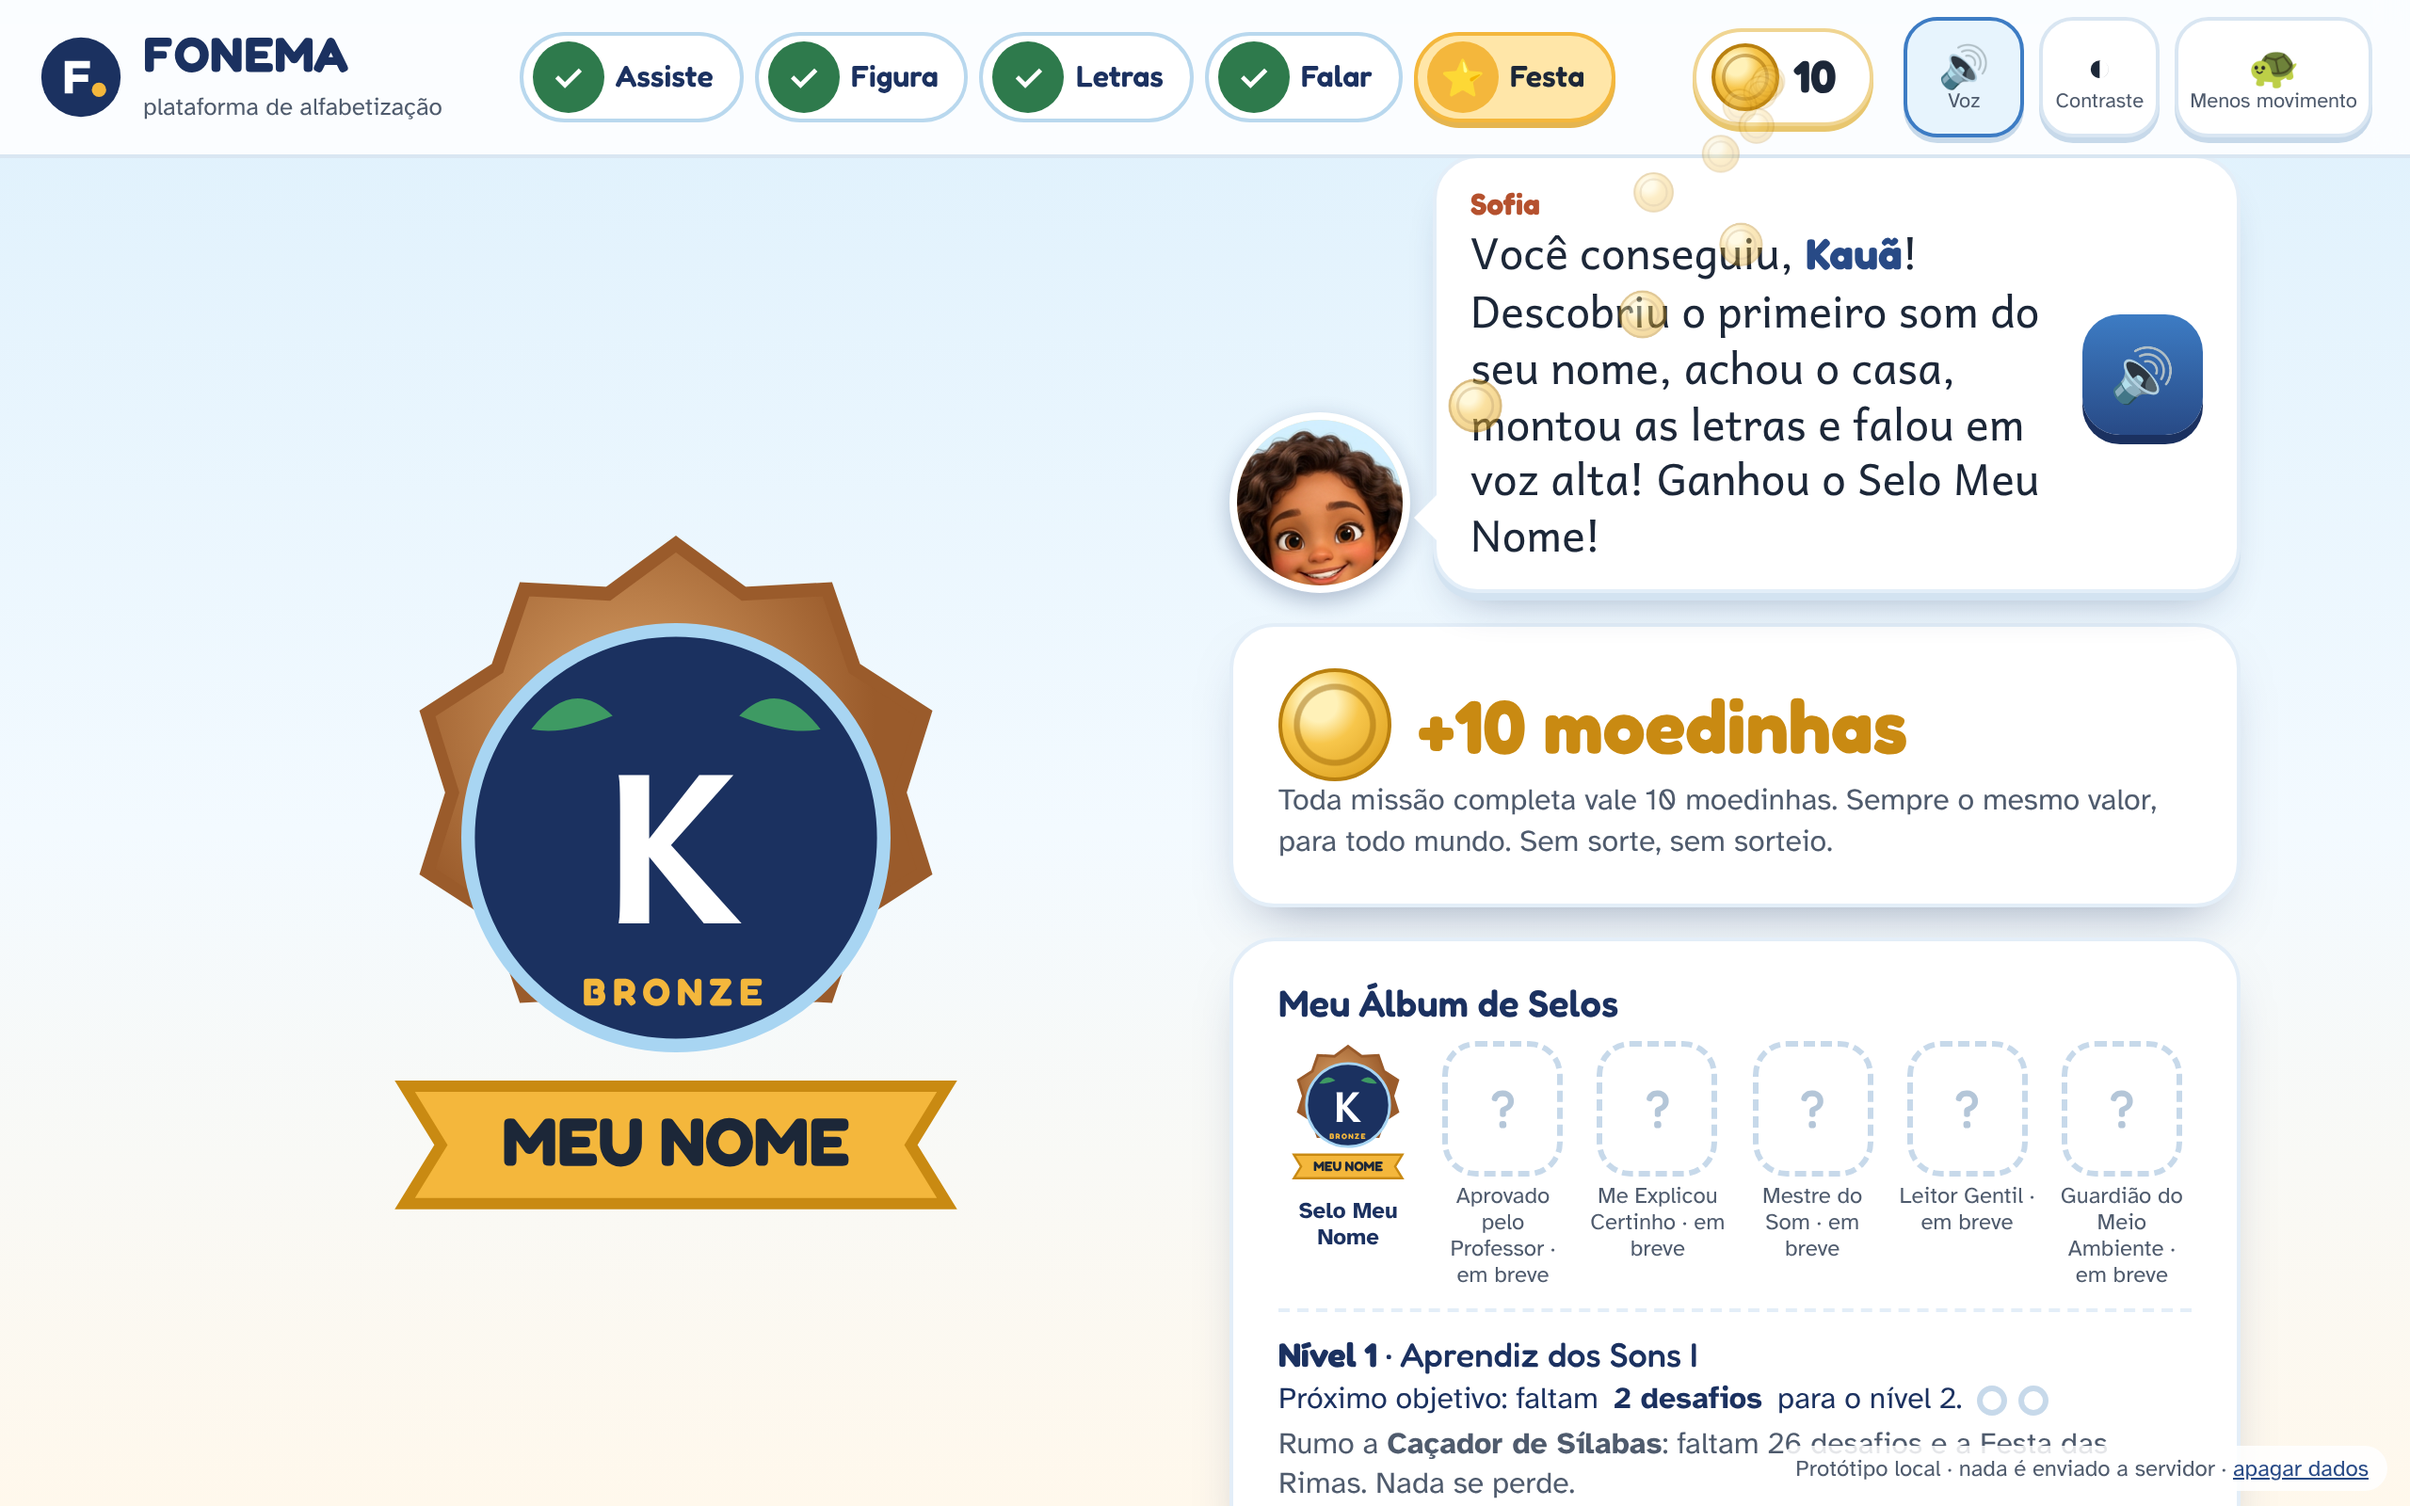
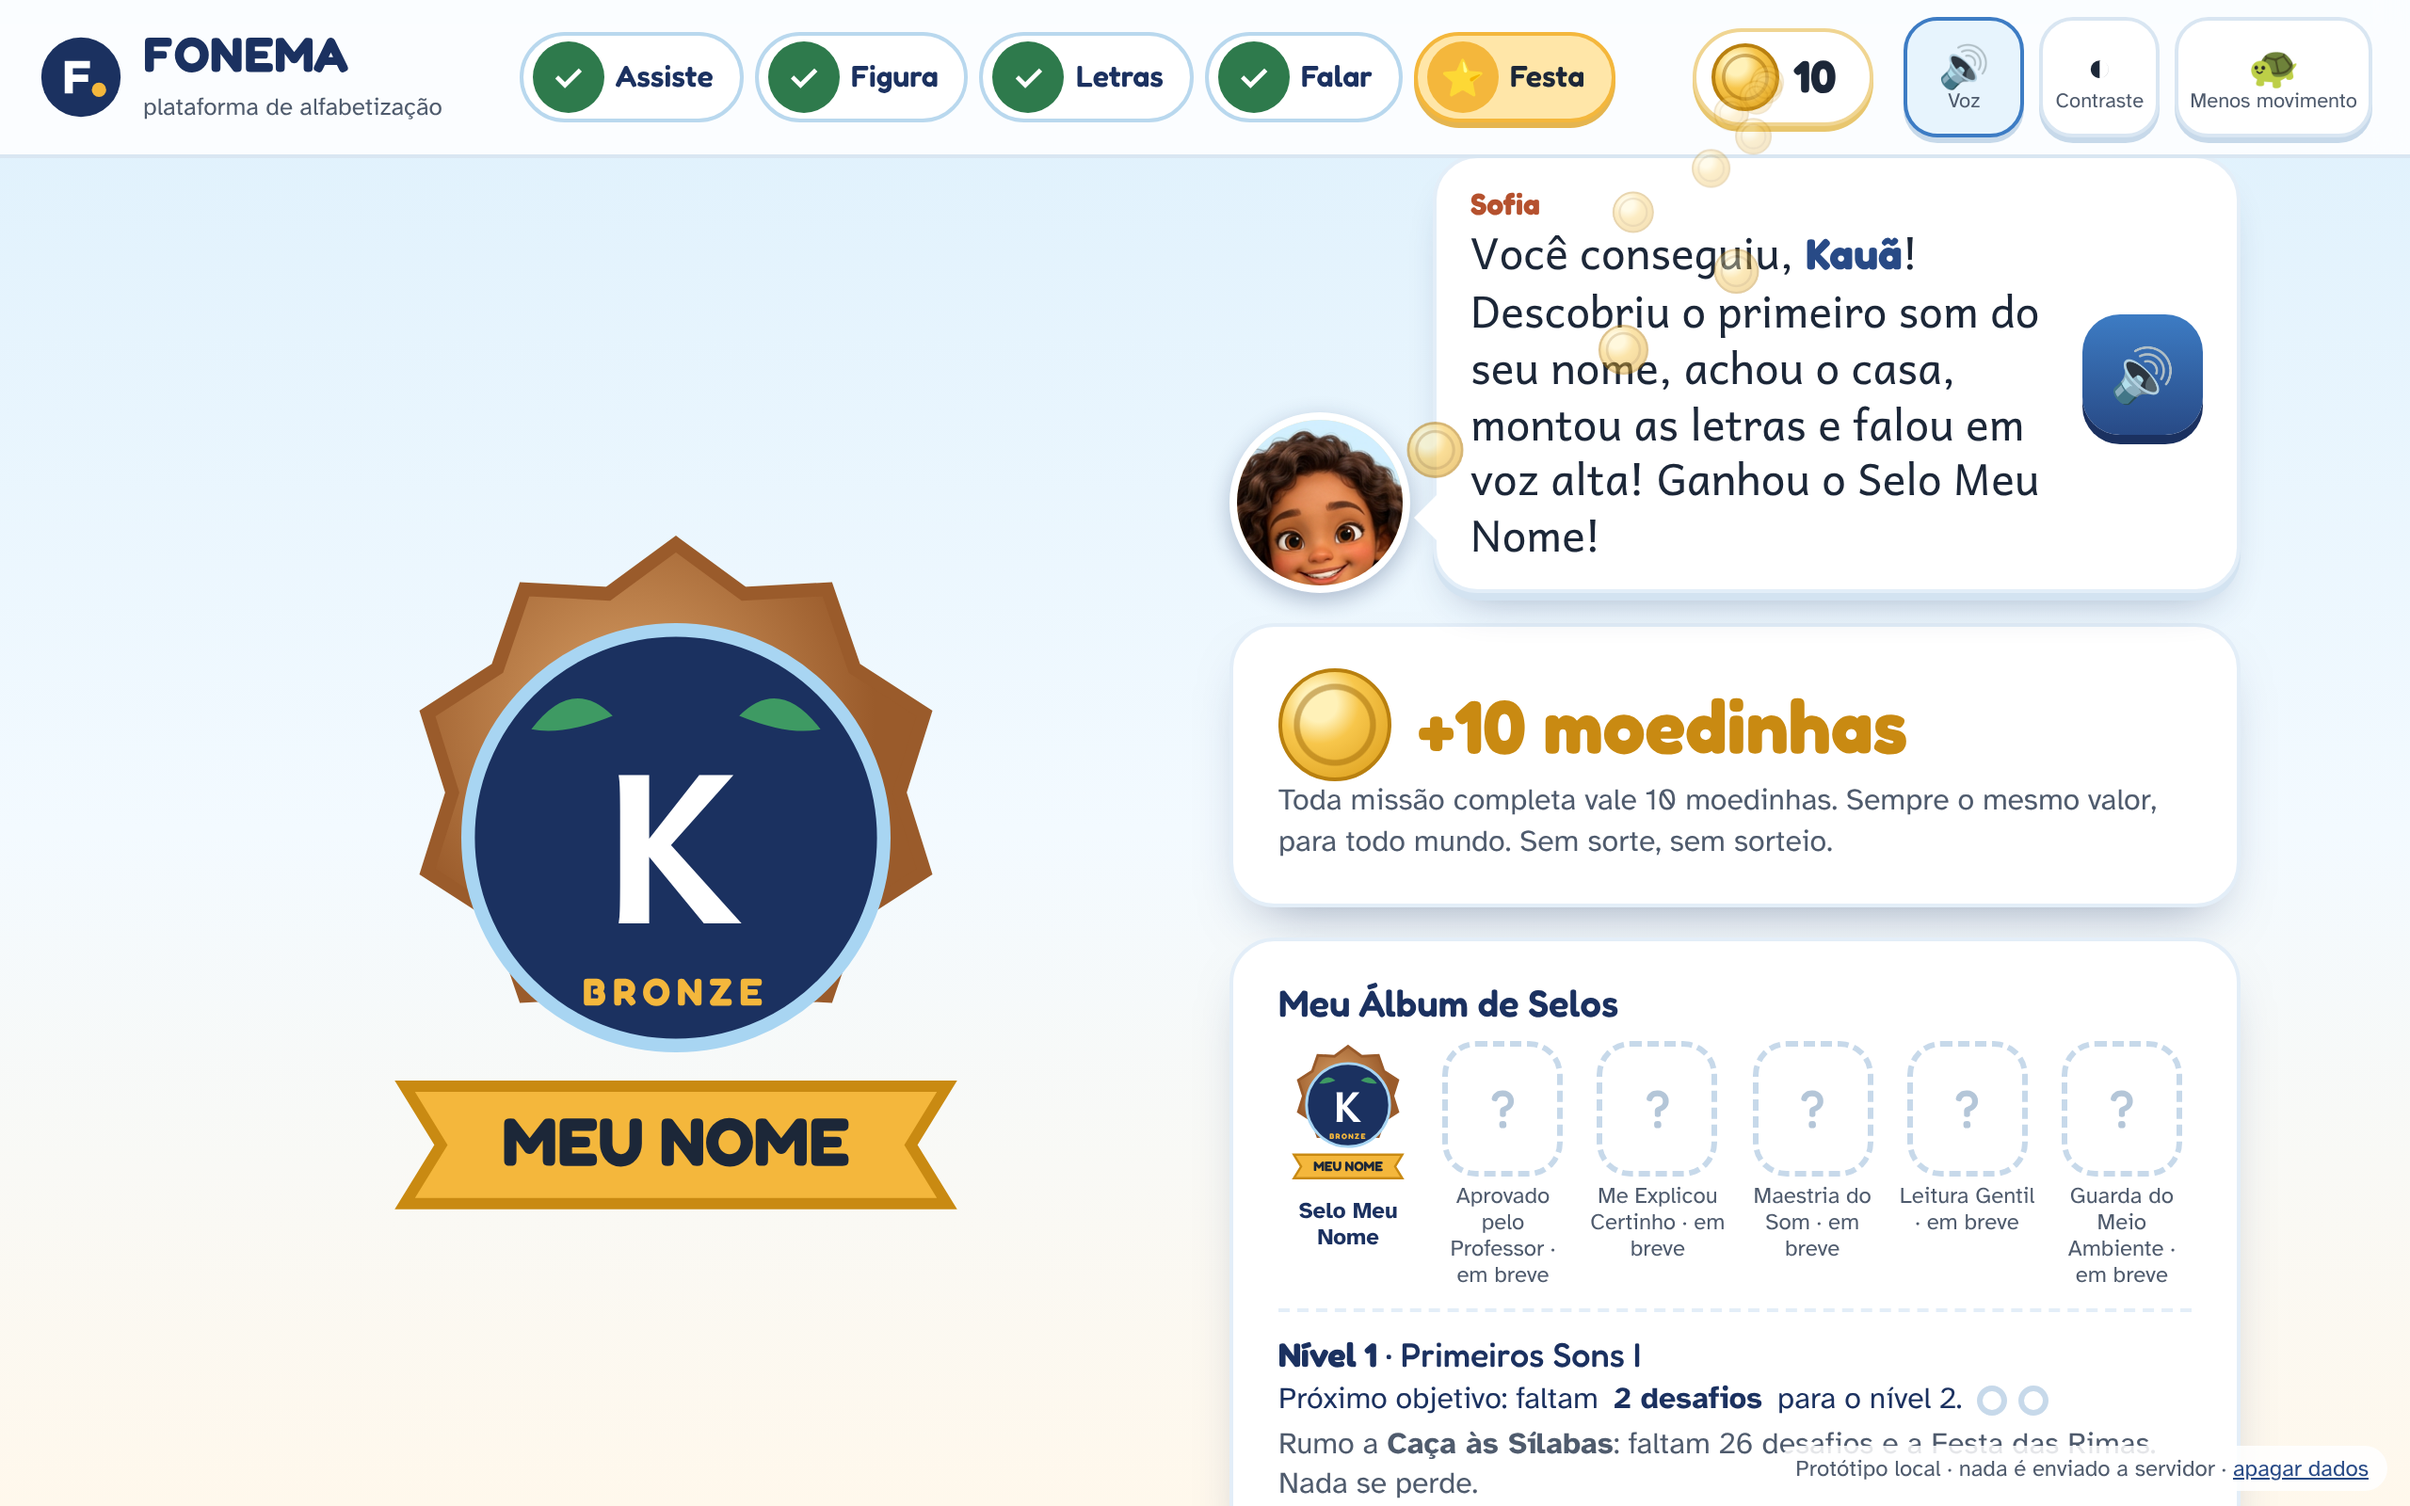
Protótipo: títulos e selos neutros no Álbum (D022)
Primeiros Sons I, Rumo a Caça às Sílabas, Maestria do Som, Leitura Gentil,
Guarda do Meio Ambiente. Teste fluxo.js passa; só a captura 12 mudou.

Claude-Session: https://claude.ai/code/session_01XFnar5EqvbkeuXqeMQuF5Q

diff --git a/docs/propostas/06-fonema-unificada/prototipo-jogavel/app.js b/docs/propostas/06-fonema-unificada/prototipo-jogavel/app.js
@@ -717,9 +717,9 @@
     ['meu-nome', 'Selo Meu Nome', () => E.nome.charAt(0).toUpperCase()],
     ['professor', 'Aprovado pelo Professor', () => '✓'],
     ['explica', 'Me Explicou Certinho', () => '🎤'],
-    ['som', 'Mestre do Som', () => (M ? M.info.letra : '?')],
-    ['gentil', 'Leitor Gentil', () => '📖'],
-    ['ambiente', 'Guardião do Meio Ambiente', () => '🌱']
+    ['som', 'Maestria do Som', () => (M ? M.info.letra : '?')],
+    ['gentil', 'Leitura Gentil', () => '📖'],
+    ['ambiente', 'Guarda do Meio Ambiente', () => '🌱']
   ];
   function albumHTML() {
     return `<div class="album" aria-label="Álbum de Selos">${ALBUM.map(([k, nm, sim]) => {
@@ -728,16 +728,16 @@
     }).join('')}</div>`;
   }
   // PRÓXIMO OBJETIVO (Decisão 019; jogo-completo/07): nível da jornada e título, por esforço; nunca desce.
-  // Após a 1ª missão: Nível 1 · Aprendiz dos Sons I. Nível 2 pede 2 desafios; para Caçador de Sílabas
+  // Após a 1ª missão: Nível 1 · Primeiros Sons I. Nível 2 pede 2 desafios; para Caça às Sílabas (D022)
   // são 2+3+4+5+6+6 = 26 desafios e vencer a Festa das Rimas (chefe de R0).
-  const PROGRESSO = { nivel: 1, titulo: 'Aprendiz dos Sons I', feitos: 0, proxNivel: 2, paraCacador: 26 };
+  const PROGRESSO = { nivel: 1, titulo: 'Primeiros Sons I', feitos: 0, proxNivel: 2, paraCaca: 26 };
   function proximoHTML() {
     const p = PROGRESSO;
     const bolinhas = Array.from({ length: p.proxNivel }, (_, i) => `<span class="bol ${i < p.feitos ? 'cheia' : ''}" aria-hidden="true"></span>`).join('');
     return `<div class="proximo" aria-label="Próximo objetivo">
       <p class="titulo-j"><strong>Nível ${p.nivel}</strong> · ${esc(p.titulo)}</p>
       <p class="prox-txt">Próximo objetivo: faltam <strong>${p.proxNivel - p.feitos} desafios</strong> para o nível ${p.nivel + 1}. <span class="bolinhas">${bolinhas}</span></p>
-      <p class="regra-moeda">Rumo a <strong>Caçador de Sílabas</strong>: faltam ${p.paraCacador} desafios e a Festa das Rimas. Nada se perde.</p>
+      <p class="regra-moeda">Rumo a <strong>Caça às Sílabas</strong>: faltam ${p.paraCaca} desafios e a Festa das Rimas. Nada se perde.</p>
     </div>`;
   }
   TELAS.celebra = (t) => {

diff --git a/docs/propostas/06-fonema-unificada/prototipo-jogavel/testes/fluxo.js b/docs/propostas/06-fonema-unificada/prototipo-jogavel/testes/fluxo.js
@@ -95,7 +95,7 @@ async function missao(page, prefixo, { mic, errarFigura, errarLetra }) {
   await page.locator('.proximo').scrollIntoViewIfNeeded(); // mostra o álbum e o próximo objetivo (D019)
   await foto(page, prefixo + '12-celebracao-selo');
   const tCel = await texto(page);
-  ok(/Próximo objetivo:\s*faltam\s*2 desafios/.test(tCel) && /Caçador de Sílabas/.test(tCel), 'álbum mostra o próximo objetivo e o caminho para Caçador de Sílabas (D019)');
+  ok(/Próximo objetivo:\s*faltam\s*2 desafios/.test(tCel) && /Caça às Sílabas/.test(tCel) && /Primeiros Sons I/.test(tCel), 'álbum mostra o próximo objetivo e o caminho para Caça às Sílabas (D019, D022)');
   await page.click('#bMostra');
 }
 

diff --git a/docs/propostas/06-fonema-unificada/prototipo-jogavel/README.md b/docs/propostas/06-fonema-unificada/prototipo-jogavel/README.md
@@ -27,7 +27,7 @@
 | 8 | **Figura** | Três figuras: qual começa com o mesmo som do nome? No 1º erro, a criança ouve "Quase, Kauã!" e recebe uma dica de articulação. No 2º erro, a figura certa brilha como modelo e a dupla faz junto. Não há X vermelho, buzina, perda de moedas nem cronômetro | `08`, `09`, `b-08` |
 | 9 | **Letras** | A criança arrasta as letras do nome (ou toca nelas) na ordem, com o modelo visível em cima. Depois de 2 erros seguidos, a letra certa brilha | `10` |
 | 10 | **Falar** | O microfone mostra um medidor de volume. O reconhecimento de fala é opcional e **só no aparelho**. Se o microfone não estiver disponível, a criança toca em "Eu falei!" | `11`, `b-11` |
-| 11 | **Celebração** | A criança ganha o **Selo "Meu Nome", nível bronze**, no Álbum de Selos, e **+10 moedinhas**, sempre o mesmo valor e sem sorte. Abaixo do álbum, o **próximo objetivo** (Decisão 019): "Nível 1 · Aprendiz dos Sons I · faltam 2 desafios para o nível 2" e "Rumo a Caçador de Sílabas: faltam 26 desafios e a Festa das Rimas" ([jogo completo, 07](../jogo-completo/07-progressao-niveis-e-titulos.md)) | `12` |
+| 11 | **Celebração** | A criança ganha o **Selo "Meu Nome", nível bronze**, no Álbum de Selos, e **+10 moedinhas**, sempre o mesmo valor e sem sorte. Abaixo do álbum, o **próximo objetivo** (Decisão 019): "Nível 1 · Primeiros Sons I · faltam 2 desafios para o nível 2" e "Rumo a Caça às Sílabas: faltam 26 desafios e a Festa das Rimas" ([jogo completo, 07](../jogo-completo/07-progressao-niveis-e-titulos.md)) | `12` |
 | 12 | **Mostra pro professor** (Decisão 018) | A criança grava "meu nome começa com…" ou toca em "Mostrei ao vivo" | `13` |
 | 13 | **Visão do professor** | O professor corrige em 1 toque: **✓ Aprendeu!**, **↺ Vamos treinar mais** ou **🎤 Me explicou certinho**. A criança ouve um parabéns com o nome e ganha um selo especial e +5 moedinhas. "Treinar mais" é acolhedor e não tira nada | `14`, `b-14` |
 | 14 | **Despedida** | Na praça do ipê, o Tales deixa um gancho para amanhã ("o Bolota quer descobrir o som do nome dele"). A Sofia fala do sono que ajuda a lembrar. Não há botão "continuar jogando" | `15` |
